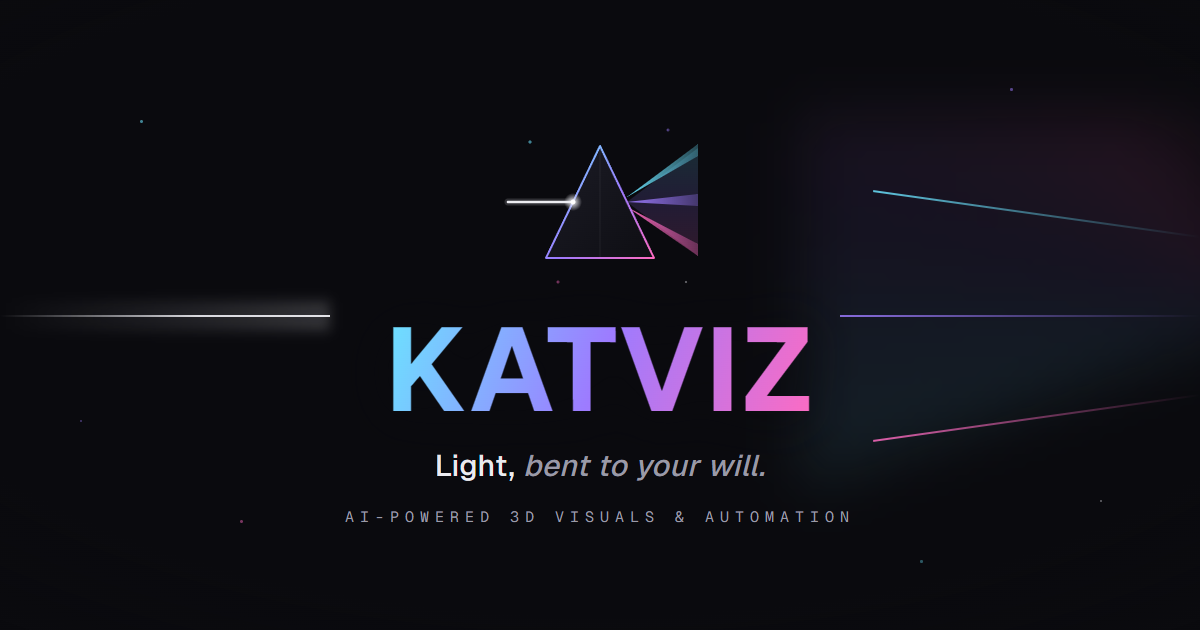
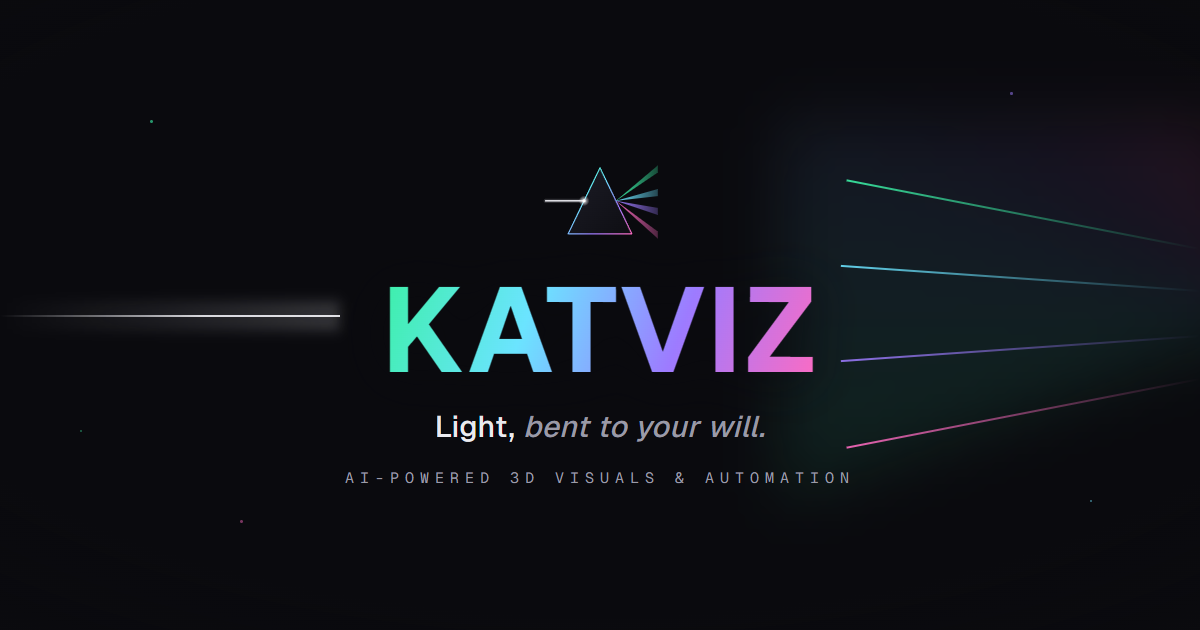
Rebrand: green completes the spectrum (green -> cyan -> violet -> magenta)
A prism throws the FULL spectrum; the palette was skipping green. Added
spring-emerald #3BF0A6 as the missing band so 'the whole spectrum' is
literal. The master gradient, wordmark, face particles, buttons, glows,
nav mark edge + fan, and og card all gain the green band. Green also takes
the 'open for projects' status dot (available = go) and process step 01.
Brand kit (tokens, guidelines, showcase, logos) + 4-ray og card updated.

diff --git a/site/index.html b/site/index.html
@@ -28,12 +28,12 @@
   :root{
     --void:#0A0A0E; --panel:#121218; --panel-2:#1A1A24; --line:#26262F;
     --chrome:#EDEDF2; --silver:#9B9BA8; --dim:#62626E;
-    --cyan:#6BE4FF; --violet:#9D7BFF; --magenta:#FF6BC1;
+    --green:#3BF0A6; --cyan:#6BE4FF; --violet:#9D7BFF; --magenta:#FF6BC1;
     --display:'Geist',system-ui,sans-serif;
     --body:'Geist',system-ui,sans-serif;
     --mono:'Geist Mono',ui-monospace,monospace;
-    --grad-spectral:linear-gradient(110deg,#6BE4FF 0%,#9D7BFF 50%,#FF6BC1 100%);
-    --glow-split:-12px 0 36px -16px rgba(107,228,255,.45),12px 0 36px -16px rgba(255,107,193,.45);
+    --grad-spectral:linear-gradient(110deg,#3BF0A6 0%,#6BE4FF 34%,#9D7BFF 67%,#FF6BC1 100%);
+    --glow-split:-12px 0 36px -16px rgba(59,240,166,.45),12px 0 36px -16px rgba(255,107,193,.45);
   }
   *{margin:0;padding:0;box-sizing:border-box;}
   html.lenis,html.lenis body{height:auto;}
@@ -199,7 +199,7 @@
   nav .nright{display:flex;align-items:center;gap:14px;}
   nav .status{display:inline-flex;align-items:center;gap:8px;font-family:var(--mono);font-size:10px;letter-spacing:1.5px;
     text-transform:uppercase;color:var(--silver);border:1px solid var(--line);border-radius:100px;padding:7px 14px;white-space:nowrap;}
-  nav .status i{width:6px;height:6px;border-radius:50%;background:var(--cyan);box-shadow:0 0 8px rgba(107,228,255,.8);
+  nav .status i{width:6px;height:6px;border-radius:50%;background:var(--green);box-shadow:0 0 8px rgba(59,240,166,.9);
     animation:chip-pulse 2.8s ease-in-out infinite;}
   @keyframes chip-pulse{0%,100%{opacity:.4;}50%{opacity:1;}}
 
@@ -248,10 +248,10 @@
   html.js #process .steps::before{transform:scaleX(var(--draw,0));transform-origin:0 50%;opacity:calc(.15 + var(--draw,0)*.45);}
   html.js .step .n{transition:box-shadow .5s,background .5s,color .5s,text-shadow .5s;}
   html.js .step.lit .n{background:linear-gradient(var(--panel-2),var(--panel-2)) padding-box,var(--grad-spectral) border-box;box-shadow:var(--glow-split);}
-  html.js .step.lit:nth-child(1) .n{color:var(--cyan);}
-  html.js .step.lit:nth-child(2) .n{color:var(--violet);}
-  html.js .step.lit:nth-child(3) .n{color:var(--magenta);}
-  html.js .step.lit:nth-child(4) .n{color:var(--chrome);text-shadow:0 0 18px rgba(237,237,242,.55);}
+  html.js .step.lit:nth-child(1) .n{color:var(--green);}
+  html.js .step.lit:nth-child(2) .n{color:var(--cyan);}
+  html.js .step.lit:nth-child(3) .n{color:var(--violet);}
+  html.js .step.lit:nth-child(4) .n{color:var(--magenta);text-shadow:0 0 18px rgba(255,107,193,.5);}
 
   /* spectral keyword strip — CSS owns the drift (works no-JS), JS adds a
      velocity nudge on .mq-pan only on desktop */
@@ -330,13 +330,13 @@
 <!-- shared mark -->
 <svg width="0" height="0" style="position:absolute" aria-hidden="true"><defs>
   <linearGradient id="km-edge" x1="0" y1="0" x2="1" y2="1">
-    <stop offset="0%" stop-color="#6BE4FF"/><stop offset="55%" stop-color="#9D7BFF"/><stop offset="100%" stop-color="#FF6BC1"/>
+    <stop offset="0%" stop-color="#3BF0A6"/><stop offset="38%" stop-color="#6BE4FF"/><stop offset="69%" stop-color="#9D7BFF"/><stop offset="100%" stop-color="#FF6BC1"/>
   </linearGradient>
   <linearGradient id="km-body" x1="0" y1="0" x2="1" y2="1">
     <stop offset="0%" stop-color="#1C1C26"/><stop offset="100%" stop-color="#0E0E13"/>
   </linearGradient>
   <linearGradient id="km-fan" x1="0" y1="0" x2="0" y2="1">
-    <stop offset="0%" stop-color="#6BE4FF"/><stop offset="50%" stop-color="#9D7BFF"/><stop offset="100%" stop-color="#FF6BC1"/>
+    <stop offset="0%" stop-color="#3BF0A6"/><stop offset="36%" stop-color="#6BE4FF"/><stop offset="68%" stop-color="#9D7BFF"/><stop offset="100%" stop-color="#FF6BC1"/>
   </linearGradient>
   <linearGradient id="km-rc" x1="0" y1="0" x2="1" y2="0">
     <stop offset="0%" stop-color="#6BE4FF" stop-opacity="0.95"/><stop offset="100%" stop-color="#6BE4FF" stop-opacity="0.28"/>
@@ -895,10 +895,13 @@
 
     const srgb = (c) => (c <= 0.04045 ? c / 12.92 : Math.pow((c + 0.055) / 1.055, 2.4)); // to linear
     // spectral tint baked on the CPU (keeps the fragment trivial → renders on every GL backend)
-    const _CY = [0x6B/255, 0xE4/255, 0xFF/255], _VI = [0x9D/255, 0x7B/255, 0xFF/255], _MA = [0xFF/255, 0x6B/255, 0xC1/255];
-    const ramp = (t) => { t = Math.max(0, Math.min(1, t));
-      if (t < 0.5) { const k = t*2; return [_CY[0]+(_VI[0]-_CY[0])*k, _CY[1]+(_VI[1]-_CY[1])*k, _CY[2]+(_VI[2]-_CY[2])*k]; }
-      const k = (t-0.5)*2; return [_VI[0]+(_MA[0]-_VI[0])*k, _VI[1]+(_MA[1]-_VI[1])*k, _VI[2]+(_MA[2]-_VI[2])*k]; };
+    const _GR = [0x3B/255, 0xF0/255, 0xA6/255], _CY = [0x6B/255, 0xE4/255, 0xFF/255], _VI = [0x9D/255, 0x7B/255, 0xFF/255], _MA = [0xFF/255, 0x6B/255, 0xC1/255];
+    const _lerp3 = (a, b, k) => [a[0] + (b[0] - a[0]) * k, a[1] + (b[1] - a[1]) * k, a[2] + (b[2] - a[2]) * k];
+    // full spectrum: green → cyan → violet → magenta (the prism, completed)
+    const ramp = (t) => { t = Math.max(0, Math.min(1, t)) * 3;
+      if (t < 1) return _lerp3(_GR, _CY, t);
+      if (t < 2) return _lerp3(_CY, _VI, t - 1);
+      return _lerp3(_VI, _MA, t - 2); };
     const TINT = 0.42;
     for (let k = 0; k < N; k++) {
       const gx = keep[k * 3], gy = keep[k * 3 + 1], d = keep[k * 3 + 2];

diff --git a/brand-kit/tokens.css b/brand-kit/tokens.css
@@ -11,7 +11,8 @@
   --panel-2:  #1A1A24;   /* raised cards, inputs */
   --line:     #26262F;   /* dividers, hairlines */
 
-  /* ---- Spectral accents (never flat on large areas) ---- */
+  /* ---- Spectral accents (the full prism — never flat on large areas) ---- */
+  --green:    #3BF0A6;   /* spring emerald — growth, "go", availability */
   --cyan:     #6BE4FF;   /* short wavelength — precision, tech */
   --violet:   #9D7BFF;   /* mid wavelength — the signature */
   --magenta:  #FF6BC1;   /* long wavelength — energy, warmth */
@@ -31,9 +32,9 @@
   --accent:     var(--violet);
 
   /* ---- Gradients (how iridescence enters the system) ---- */
-  --grad-spectral: linear-gradient(110deg, #6BE4FF 0%, #9D7BFF 50%, #FF6BC1 100%);
-  --grad-spectral-v: linear-gradient(180deg, #6BE4FF 0%, #9D7BFF 50%, #FF6BC1 100%);
-  --grad-edge: linear-gradient(135deg, rgba(107,228,255,0.6), rgba(157,123,255,0.45), rgba(255,107,193,0.6));
+  --grad-spectral: linear-gradient(110deg, #3BF0A6 0%, #6BE4FF 34%, #9D7BFF 67%, #FF6BC1 100%);
+  --grad-spectral-v: linear-gradient(180deg, #3BF0A6 0%, #6BE4FF 34%, #9D7BFF 67%, #FF6BC1 100%);
+  --grad-edge: linear-gradient(135deg, rgba(59,240,166,0.55), rgba(107,228,255,0.5), rgba(157,123,255,0.45), rgba(255,107,193,0.6));
   --grad-beam: linear-gradient(90deg, rgba(237,237,242,0) 0%, rgba(237,237,242,0.9) 50%, rgba(237,237,242,0) 100%);
 
   /* ---- Type (one family, two voices: Geist for everything proportional, Geist Mono for the readout) ---- */
@@ -49,7 +50,7 @@
   /* ---- Glows (split, never single-color halos on big areas) ---- */
   --glow-cyan:    0 8px 40px rgba(107, 228, 255, 0.14);
   --glow-magenta: 0 8px 40px rgba(255, 107, 193, 0.14);
-  --glow-split:   -12px 0 36px -16px rgba(107, 228, 255, 0.45),
+  --glow-split:   -12px 0 36px -16px rgba(59, 240, 166, 0.45),
                    12px 0 36px -16px rgba(255, 107, 193, 0.45);
 }
 
@@ -59,6 +60,7 @@
    PASSES 4.5:1 (safe for any text size):
      --chrome  #EDEDF2  ≈ 17.4:1  (AAA — primary body pairing)
      --silver  #9B9BA8  ≈  7.0:1  (AA+ — secondary text, mono labels)
+     --green   #3BF0A6  ≈ 12.4:1
      --cyan    #6BE4FF  ≈ 13.1:1
      --violet  #9D7BFF  ≈  6.2:1
      --magenta #FF6BC1  ≈  7.5:1
@@ -70,8 +72,9 @@
    ONLY at display sizes (>= 24px), and every background-clip
    element must declare a solid color (--chrome) BEFORE the
    clip rules as fallback. Body and mono labels stay solid
-   --chrome / --silver. Single accent stops (cyan / violet /
-   magenta) are for borders, glows, and small accents — never
+   --chrome / --silver. Single accent stops (green / cyan /
+   violet / magenta) are for borders, glows, small accents —
+   green also carries "available / go" status — never
    flat fills on large areas: iridescence is always a gradient,
    a chromatic edge, or a split glow.
    ============================================================ */

diff --git a/brand-kit/index.html b/brand-kit/index.html
@@ -152,7 +152,7 @@
     <div class="grad-demo">
       <div>
         <div class="grad-bar"></div>
-        <p class="grad-note" style="margin-top:10px">--grad-spectral · 110deg · cyan → violet → magenta</p>
+        <p class="grad-note" style="margin-top:10px">--grad-spectral · 110deg · green → cyan → violet → magenta</p>
       </div>
       <div>
         <p class="grad-text">The spectrum is the signature.</p>
@@ -201,9 +201,9 @@
   <section>
     <div class="sec-head"><span class="sec-num">05</span><h2 class="sec-title">Quick reference</h2></div>
     <pre class="qr"><b>Void</b>   #0A0A0E   <b>Panel</b>   #121218   <b>Line</b>    #26262F
-<b>Cyan</b>   #6BE4FF   <b>Violet</b>  #9D7BFF   <b>Magenta</b> #FF6BC1
+<b>Green</b>  #3BF0A6   <b>Cyan</b>   #6BE4FF   <b>Violet</b> #9D7BFF   <b>Magenta</b> #FF6BC1
 <b>Chrome</b> #EDEDF2   <b>Silver</b>  #9B9BA8   <b>Dim</b>     #62626E
-<b>Gradient</b>  110deg cyan → violet → magenta · display text ≥ 24px only
+<b>Gradient</b>  110deg green → cyan → violet → magenta · display text ≥ 24px only
 <b>Display</b> Geist 600/700 · <b>Body</b> Geist 400/500 · <b>Mono</b> Geist Mono</pre>
   </section>
 

diff --git a/brand-kit/BRAND.md b/brand-kit/BRAND.md
@@ -41,7 +41,7 @@ Files in `logo/`:
 
 ## 3. Color
 
-Full tokens in `tokens.css`. The system is **a near-black noir with three spectral accents — iridescence is never flat.**
+Full tokens in `tokens.css`. The system is **a near-black noir carrying the full spectral range — green through magenta — iridescence is never flat.**
 
 | Token | Hex | Role |
 |---|---|---|
@@ -49,13 +49,14 @@ Full tokens in `tokens.css`. The system is **a near-black noir with three spectr
 | Panel | `#121218` | Cards |
 | Panel 2 | `#1A1A24` | Raised cards, inputs |
 | Line | `#26262F` | Borders, hairlines |
+| Green | `#3BF0A6` | Spectral accent — growth; also the "available / go" status signal |
 | Cyan | `#6BE4FF` | Spectral accent — precision |
 | Violet | `#9D7BFF` | Spectral accent — the signature |
 | Magenta | `#FF6BC1` | Spectral accent — energy |
 | Chrome | `#EDEDF2` | Primary text |
 | Silver | `#9B9BA8` | Secondary text |
 
-**Accessibility:** Chrome on Void is the text pairing (≈17:1, AAA). Silver passes AA+ (≈7:1). All three spectral accents pass 4.5:1 on Void, but they live as **gradients, chromatic edges, and split glows** — never flat single-color fills on large areas, and never as small text below 4.5:1. The spectral gradient may be clipped to text **only at ≥24px**, always with a solid `--chrome` fallback declared first. `--dim` (#62626E) is decorative only.
+**Accessibility:** Chrome on Void is the text pairing (≈17:1, AAA). Silver passes AA+ (≈7:1). All four spectral accents pass 4.5:1 on Void, but they live as **gradients, chromatic edges, and split glows** — never flat single-color fills on large areas, and never as small text below 4.5:1. The spectral gradient may be clipped to text **only at ≥24px**, always with a solid `--chrome` fallback declared first. `--dim` (#62626E) is decorative only.
 
 ---
 
@@ -88,9 +89,9 @@ Write like a physicist who moonlights as a creative director. Precise, then surp
 ## 6. Quick reference
 
 ```
-Void   #0A0A0E   Panel   #121218   Line    #26262F
-Cyan   #6BE4FF   Violet  #9D7BFF   Magenta #FF6BC1
-Chrome #EDEDF2   Silver  #9B9BA8   Dim     #62626E
-Gradient: 110deg cyan -> violet -> magenta (display text >= 24px only)
+Void   #0A0A0E   Panel  #121218   Line    #26262F
+Green  #3BF0A6   Cyan   #6BE4FF   Violet  #9D7BFF   Magenta #FF6BC1
+Chrome #EDEDF2   Silver #9B9BA8   Dim     #62626E
+Gradient: 110deg green -> cyan -> violet -> magenta (display text >= 24px only)
 Display: Geist 600/700 · Body: Geist 400/500 · Mono: Geist Mono 400/500
 ```
